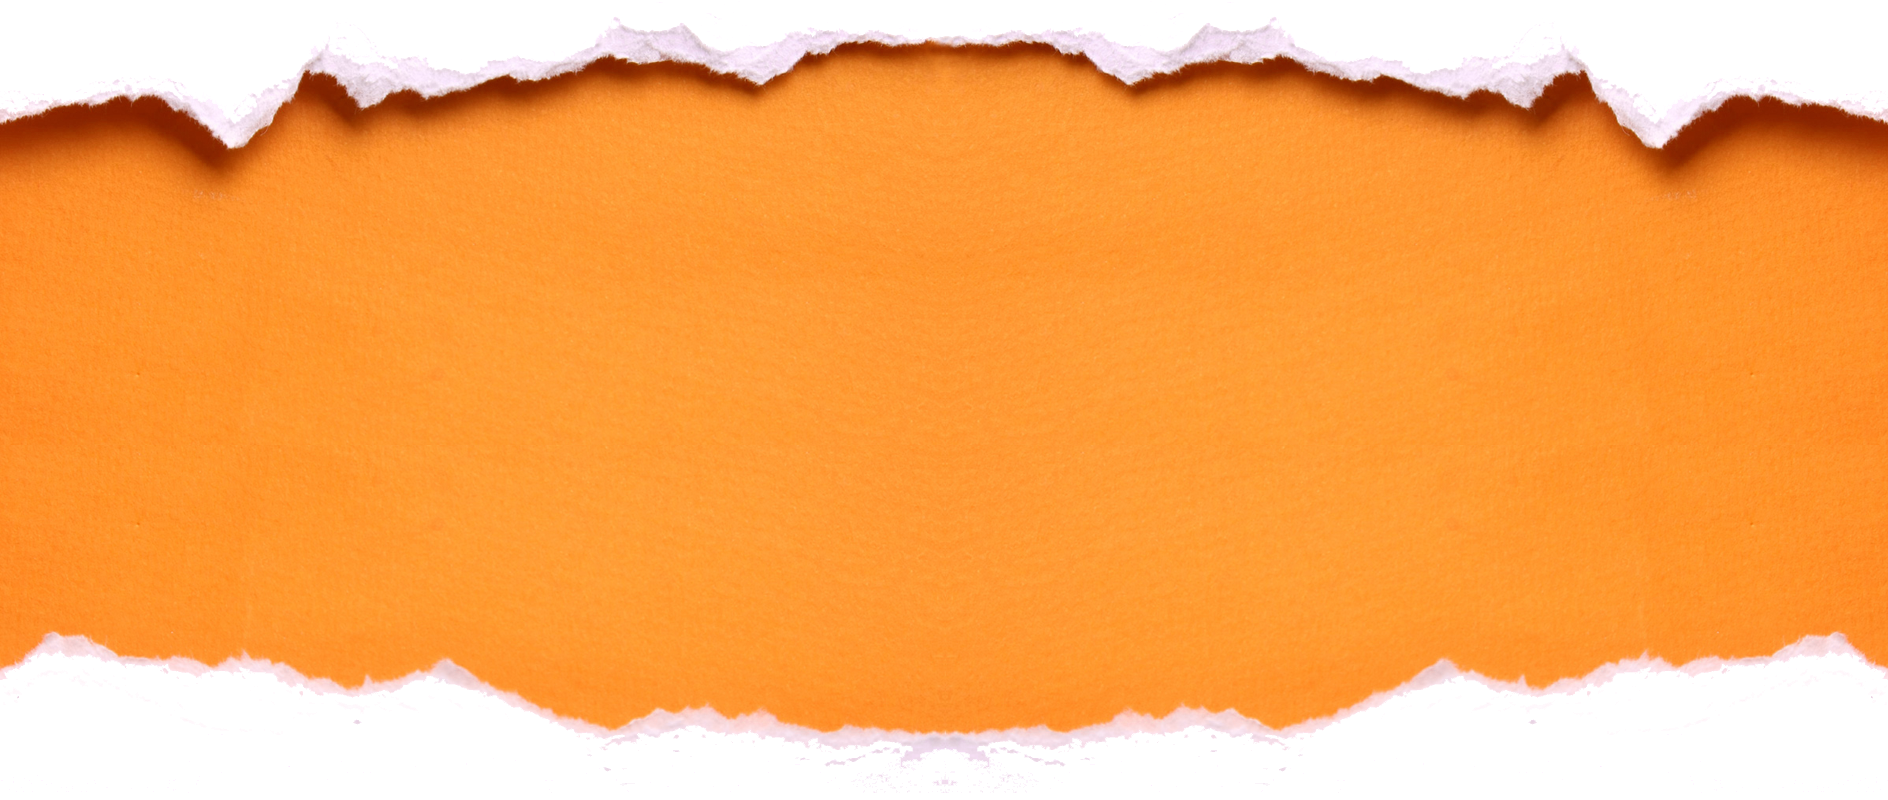
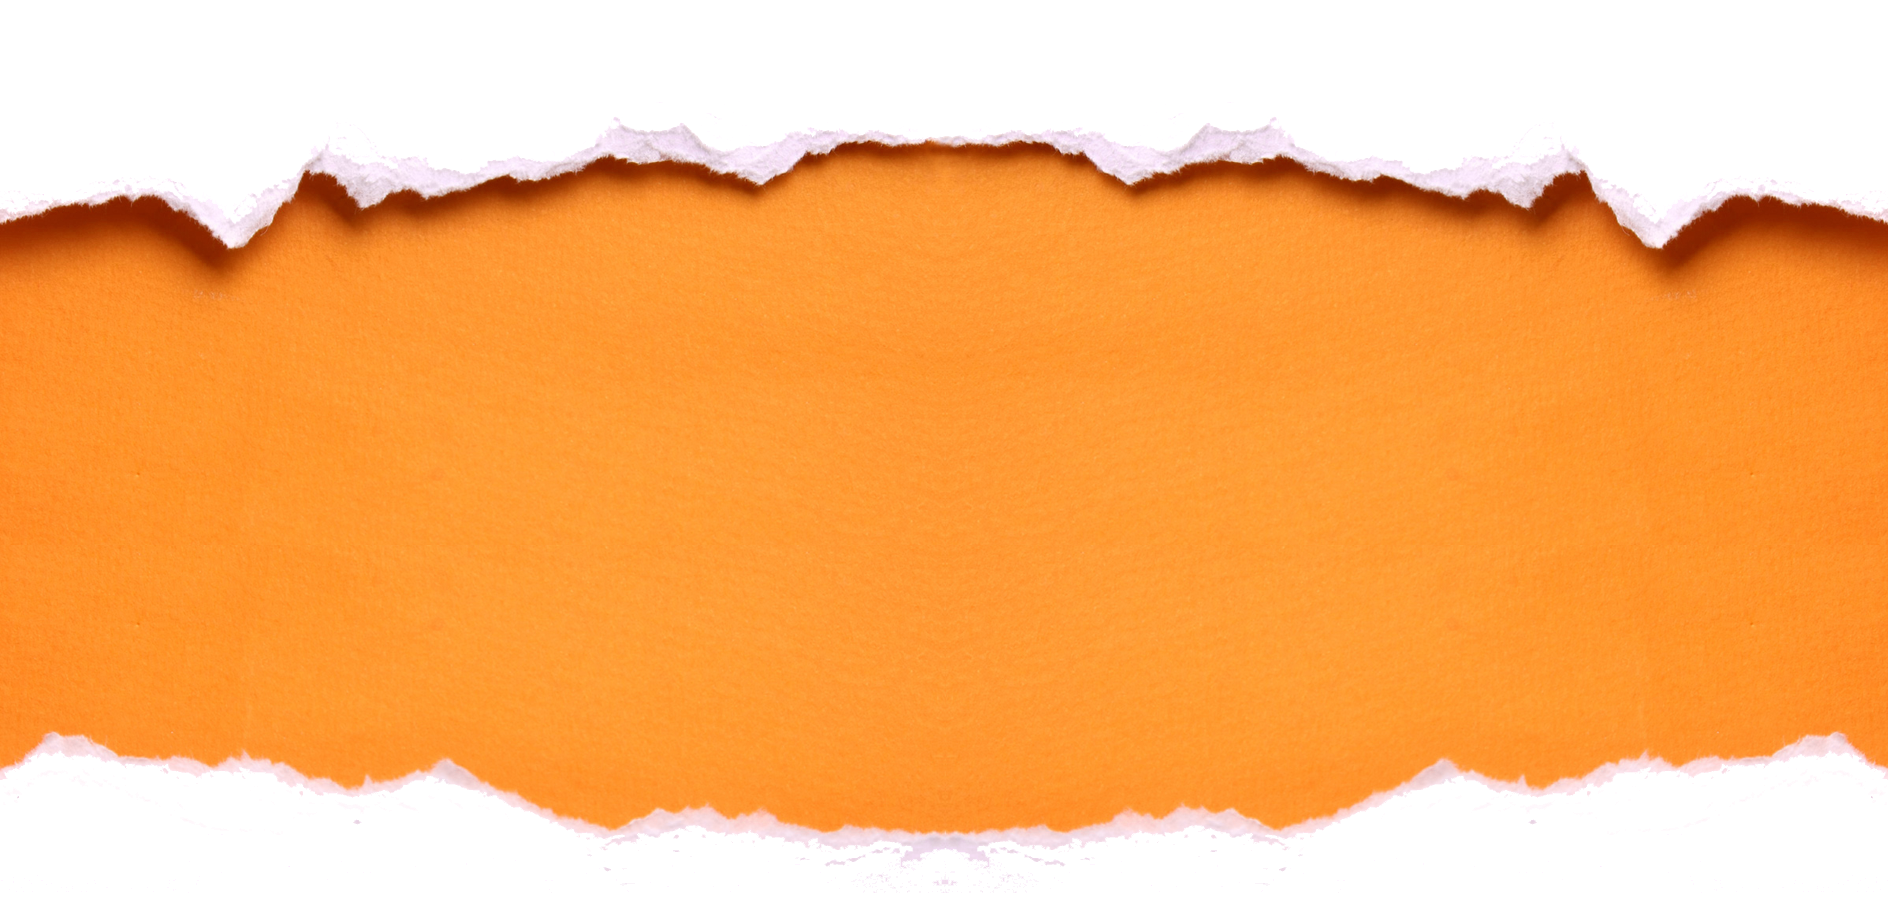
contact us page :D

Changed region(s): [[0.0, 0.0312, 1.0, 0.3438], [0.0, 0.7812, 1.0, 0.9688]]

diff --git a/style.css b/style.css
@@ -32,6 +32,8 @@ body {
 * {
 	color: whitesmoke;
 	font-family: 'HankenGrotesk', Arial, Helvetica, sans-serif;
+	animation-duration: 0.5s;
+	transition-duration: 0.5s;
 }
 
 h1,
@@ -62,7 +64,7 @@ nav {
 			content: "";
 			position: absolute;
 			inset: 0;
-			background: rgba(194, 96, 111, 0.25);
+			background: rgba(246, 109, 129, 0.25);
 		}
 
 		img {
@@ -89,7 +91,7 @@ nav {
 			place-content: center;
 			color: #02031E;
 			text-decoration: none;
-		
+
 			&:hover {
 				background: rgba(194, 96, 111, 0.118);
 			}
@@ -141,14 +143,34 @@ nav {
 }
 
 #pre-pro {
-	background-image: url("img/DarkSkyBackground.png");
-	background-size: cover;
-	background-position: center;
-	background-repeat: no-repeat;
+	background:
+		url("img/DarkSkyBackground.png") center/cover no-repeat;
 }
 
 #contact {
-	background-color: #fe942d;
+	/* background-color: #fe942d; */
+	background:
+		linear-gradient(rgba(230, 150, 162, 0.355), rgba(255, 182, 193, 0.25)),
+		url("img/paper2.png") center/cover no-repeat;
+	display: flex;
+	flex-direction: column;
+	align-items: center;
+
+	padding-top: 15rem;
+	padding-bottom: 7rem;
+	justify-content: space-between;
+
+
+	* {
+		color: #02031E;
+		font-size: larger;
+	}
+
+	h2 {
+		font-size: 3rem;
+		text-decoration: dashed underline #b03407;
+		text-decoration-thickness: 4px;
+	}
 
 	a {
 		display: flex;
@@ -157,7 +179,40 @@ nav {
 		gap: 1rem;
 	}
 
-	.logo {
-		height: 3rem;
+	div.links {
+		display: flex;
+		flex-direction: column;
+		gap: 2rem;
+		margin-top: -10rem;
+
+		a {
+			background:
+				linear-gradient(rgba(230, 150, 162, 0.355), rgba(255, 182, 193, 0.25)),
+				url("img/paper1.jpg") center/cover no-repeat;
+
+			padding: 1rem;
+			box-shadow: 10px 10px 5px #02031e49;
+
+			&:nth-child(1) {
+				transform: translate(-15px, -5px) rotate(-5deg);
+			}
+			&:nth-child(2) {
+				transform: translateX(20px) rotate(3deg);
+			}
+
+			&:hover {
+				transform: translateY(-5px) scale(1.2);
+				filter: brightness(1.1);
+				box-shadow: 15px 25px 5px #02031e30;
+			}
+		}
+
+		.logo {
+			height: 3rem;
+		}
+	}
+
+	#copyright {
+		color: #b03407;
 	}
 }

diff --git a/index.html b/index.html
@@ -40,11 +40,13 @@
 
 	<div id="contact" class="page">
 		<h2>Contact Us!</h2>
-		<a href="mailto:creasegamestudio@gmail.com"><img src="img/mail.png" class="logo"
-				alt="email" />creasegamestudio@gmail.com</a>
-		<a href="https://www.instagram.com/creasegame" target="_blank"><img src="img/instagram.png" class="logo"
-				alt="instagram" />creasegame</a>
-		<div>© Crease 2026</div>
+		<div class="links">
+			<a href="mailto:creasegamestudio@gmail.com"><img src="img/mail.png" class="logo"
+					alt="email" />creasegamestudio@gmail.com</a>
+			<a href="https://www.instagram.com/creasegame" target="_blank"><img src="img/instagram.png" class="logo"
+					alt="instagram" />creasegame</a>
+		</div>
+		<div id="copyright">© Crease 2026</div>
 	</div>
 
 </body>
